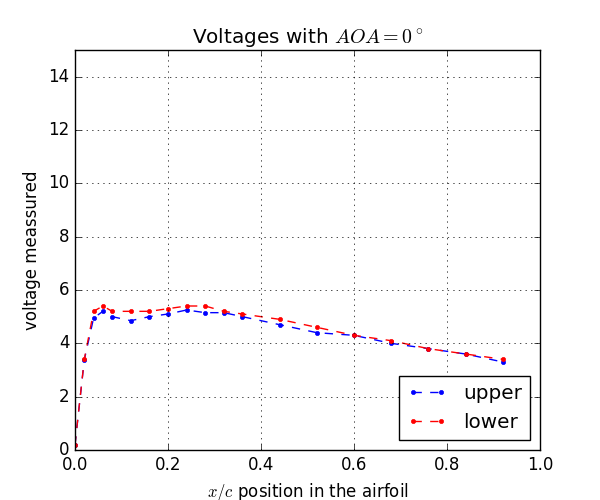
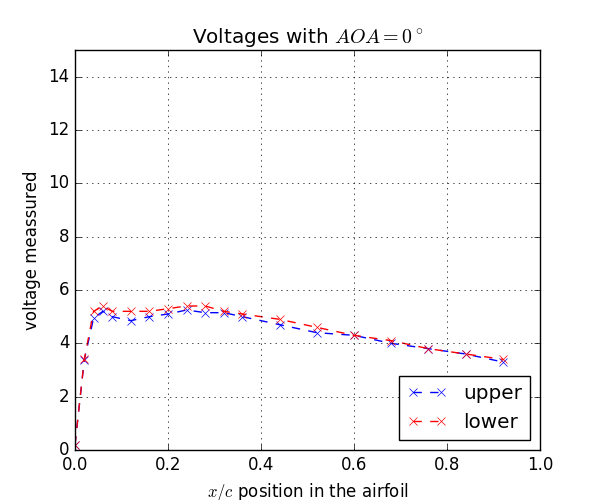
Almost done

diff --git a/tunel.py b/tunel.py
@@ -31,11 +31,11 @@ class VoltagePlot(object):
 
         self.ax.grid()
 
-        l, = self.ax.plot(x, yu, 'b.--', label='upper')
+        l, = self.ax.plot(x, yu, 'bx--', label='upper')
+        lines.append(l)
+        l, = self.ax.plot(x, yl, 'rx--', label='lower')
         lines.append(l)
 
-        l, = self.ax.plot(x, yl, 'r.--', label='lower')
-        lines.append(l)
 
         self.ax.legend(loc='lower right')
 
@@ -100,12 +100,15 @@ class CpPlot(object):
         l, = self.ax1.plot(x, cpl, 'rx--', label='lower')
         lines.append(l)
 
-        l, = self.ax2.plot((xg[300::] + 0.01) * 0.99, yg[300::] * 0 - 1, color='k', linestyle='--', linewidth=1.5)
+        l, = self.ax2.plot((xg[300::] + 0.01) * 0.99, yg[300::] * 0 - 1,
+                           color='k', linestyle='--', linewidth=1.5)
         lines.append(l)
         # index 300 is (0.0, 0.0)
-        l, = self.ax2.plot((xg[:301:] + 0.01) * 0.99, yg[:301:] - 1, color='b', linestyle='-', linewidth=1.5)
+        l, = self.ax2.plot((xg[:301:] + 0.01) * 0.99, yg[:301:] - 1,
+                           color='b', linestyle='-', linewidth=1.5)
         lines.append(l)
-        l, = self.ax2.plot((xg[300::] + 0.01) * 0.99, yg[300::] - 1, color='r', linestyle='-', linewidth=1.5)
+        l, = self.ax2.plot((xg[300::] + 0.01) * 0.99, yg[300::] - 1,
+                           color='r', linestyle='-', linewidth=1.5)
         lines.append(l)
 
         self.ax1.legend(loc='upper right')
@@ -113,19 +116,9 @@ class CpPlot(object):
         return lines
 
 def calculate_cl(x, cpu, cpl, aoa):
-    dx = x[1::] - x[0:-1:]
-
-    dx = np.vstack((dx, dx))
-
-    cp = np.vstack((cpu, cpl))
-
-    p = (cp[:, 1::] + cp[:, 0:-1:]) / 2
-
-    s = np.sum(p * dx, axis=1)
-
     # not dividing by c because it's x/c realy
     # doing cl = cn * cos(aoa)
-    cl = (s[1] - s[0]) * np.cos(aoa * np.pi / 180)
+    cl = (np.trapz(cpl, x) - np.trapz(cpu, x)) * np.cos(aoa * np.pi / 180)
 
     return cl
 
@@ -140,8 +133,14 @@ class ClaPlot(object):
     def plot(self, aoa, cl):
         lines = []
 
-        f = os.path.join(os.path.dirname(__file__), 'data/naca008-atools.txt')
+        f = os.path.join(os.path.dirname(__file__), 'data/cla_data.csv')
         data_atools = np.loadtxt(f, dtype=float).T
+
+        # least squares courve fitting
+        xx = np.linspace(-5, 22, 300)
+        z = np.polyfit(aoa, cl, 3)
+        # it is convenient to use poly1d objects for dealing with polynomials
+        p = np.poly1d(z)
 
         self.ax.set_ylim(-0.5, 1.5)
         self.ax.set_xlim(-5, 22)
@@ -152,9 +151,12 @@ class ClaPlot(object):
 
         self.ax.grid()
 
-        l, = self.ax.plot(aoa, cl, 'bx--', label='experimental $c_{l}$')
+        l, = self.ax.plot(xx, p(xx), 'g-')
         lines.append(l)
-        l, = self.ax.plot(data_atools[0], data_atools[1], 'k--', label='numerical $c_{l}$')
+        l, = self.ax.plot(aoa, cl, 'o', label='experimental $c_{l}$')
+        lines.append(l)
+        l, = self.ax.plot(data_atools[0], data_atools[1], 'k--',
+                          label=r'numerical $Re = 3e+6$')
         lines.append(l)
 
         self.ax.legend(loc='lower right')
@@ -174,7 +176,6 @@ if __name__ == "__main__":
 
     # offset calibration
     offset = np.amin(tunel_data[1::])
-    print(offset)
     tunel_data[1::] -= offset
     inf_data -= offset
 
